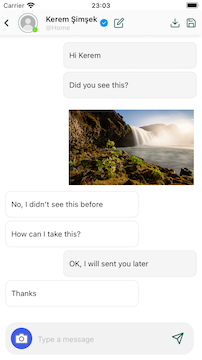
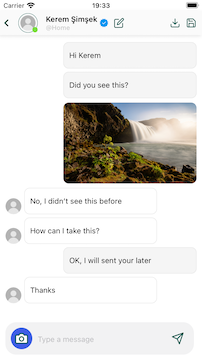
fix style

diff --git a/src/views/instagram/InstagramPreview.js b/src/views/instagram/InstagramPreview.js
@@ -79,14 +79,14 @@ function InstagramPreview({data, dispatch, isVisible, close}) {
                                                 <View style={{
                                                 ...styles.imageContainer,
                                                 width: isMyMessage ? "66%" : '75%',
-                                                marginHorizontal: isMyMessage ? 0 : 10,
+                                                marginLeft: isMyMessage ? 0 : 10,
+                                                marginRight: isMyMessage ? 10 : 0,
                                                 alignSelf: isMyMessage ? "flex-end": "flex-start"}}>
                                                     {
                                                         !isMyMessage && (data.partner.profileImage ? <Image source={{uri: data.partner.profileImage}} style={styles.messageAvatar} /> 
                                                                                                    : <Image source={require('../../assets/images/user-icon.png')} style={styles.messageAvatar} />)
                                                     }
-                                                    <Image source={{uri: item.imageUrl}} style={{...styles.imageSelf, 
-                                                                                                 marginHorizontal: isMyMessage ? 10 : 0}}></Image>
+                                                    <Image source={{uri: item.imageUrl}} style={styles.imageSelf}></Image>
                                                 </View>
                                                 { showStatus && (
                                                         <View style={styles.statusContainer}>

diff --git a/src/components/instagram/InstagramMessageBubble.js b/src/components/instagram/InstagramMessageBubble.js
@@ -10,14 +10,14 @@ function InstagramMessageBubble({data, partner}) {
         <View style={{
           ...styles.imageContainer,
           width: isMyMessage ? "66%" : '75%',
-          marginHorizontal: isMyMessage ? 0 : 10,
+          marginLeft: isMyMessage ? 0 : 10,
+          marginRight: isMyMessage ? 10 : 0,
           alignSelf: isMyMessage ? "flex-end": "flex-start"}}>
           {
             !isMyMessage && (partner.profileImage ? <Image source={{uri: partner.profileImage}} style={styles.avatar} /> 
                                                   : <Image source={require('../../assets/images/user-icon.png')} style={styles.avatar} />)
           }
-          <Image source={{uri: data.imageUrl}} style={{...styles.imageSelf, 
-                                                       marginHorizontal: isMyMessage ? 10 : 0}}></Image>
+          <Image source={{uri: data.imageUrl}} style={styles.imageSelf}></Image>
         </View>
       );
     }
